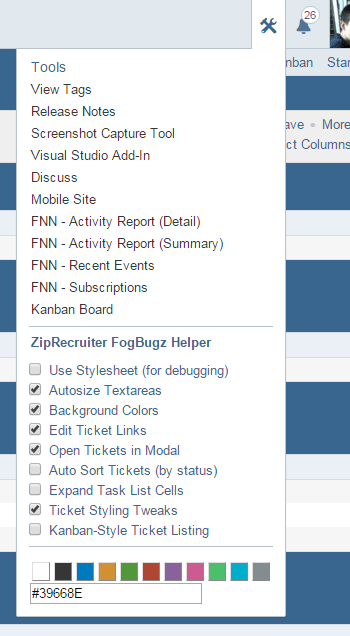
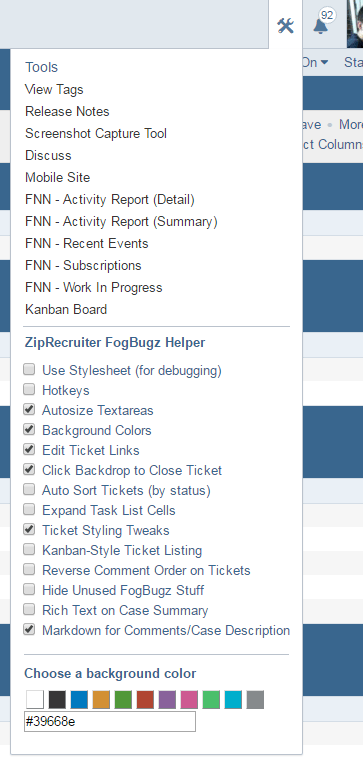
Updating docs for markdown

diff --git a/greasemonkey/fogbugz-helper/index.html b/greasemonkey/fogbugz-helper/index.html
@@ -31,14 +31,14 @@ title: Greasemonkey Scripts - FogBugz Helper
         <li>Auto-sorting tickets that arranged by "status" (Fogbugz sorts them in an almost random order)</li>
         <li>Hotkeys (work in progress, disabled by default)</li>
 
-        <li>WYSIWYG editor for Case Description</li>
+        <li>WYSIWYG editor for Case Description (disabled by default)</li>
         <li>Markdown to HTML in comments and case description</li>
 
         <li>Preferences for many JS features. More styling features to come.</li>
       </ul>
 
       <p>To enable/disable features, mouse-over the tools menu in FogBugz:</p>
-      <p><img src="/greasemonkey/fogbugz-helper/img/tools_dropdown.png" width="350" height="636"></p>
+      <p><img src="/greasemonkey/fogbugz-helper/img/tools_dropdown.png" width="363" height="764"></p>
       <p>Note: some features are disabled by default</p>
     </div>
   </section>
